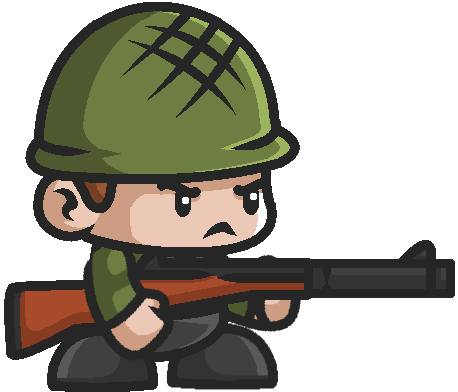
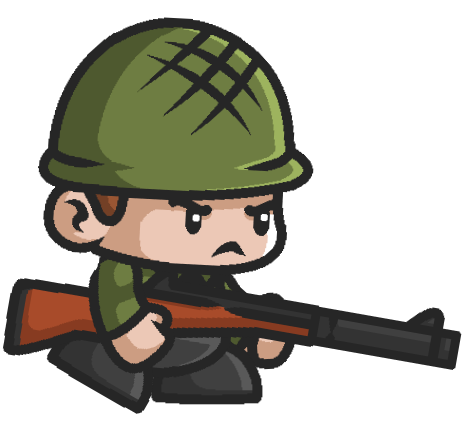
ADD: Adicionado imagens andando

diff --git a/ex-1.7/main.c b/ex-1.7/main.c
@@ -2,17 +2,18 @@
 #include <SDL2/SDL_image.h>
 #include <stdbool.h>
 
+#define NUM_FRAMES 9
+#define FRAME_DELAY 100 // ms por frame
+
 int AUX_WaitEventTimeout(SDL_Event *evt, Uint32 *ms) {
     if (ms == NULL) {
         return 0; // segurança
     }
 
-    Uint32 start = SDL_GetTicks(); // tempo inicial
-
-    int result = SDL_WaitEventTimeout(evt, *ms); // 1 = evento, 0 = timeout
-
-    Uint32 end = SDL_GetTicks(); // tempo final
-    Uint32 elapsed = end - start; // tempo decorrido
+    Uint32 start = SDL_GetTicks();
+    int result = SDL_WaitEventTimeout(evt, *ms);
+    Uint32 end = SDL_GetTicks();
+    Uint32 elapsed = end - start;
 
     if (elapsed >= *ms) {
         *ms = 0;
@@ -23,49 +24,70 @@ int AUX_WaitEventTimeout(SDL_Event *evt, Uint32 *ms) {
     return result; 
 }
 
-int main(int args, char* argc[]){
-
+int main(int args, char* argc[]) {
     bool rodando = true;
     int timeout = 16;
     SDL_Event evento;
 
-    // Iniciando elementos essenciais do SDL
     SDL_Init(SDL_INIT_EVERYTHING);
-    IMG_Init(0);
+    IMG_Init(IMG_INIT_PNG);
 
     SDL_Window* janela = SDL_CreateWindow(
-        "Exercicio-1.7",
+        "Animacao Sprite",
         SDL_WINDOWPOS_CENTERED,
         SDL_WINDOWPOS_CENTERED,
         800, 600,
         SDL_WINDOW_SHOWN
     );
     
-    SDL_Renderer* renderizador = SDL_CreateRenderer(janela, -1, 0);
+    SDL_Renderer* renderizador = SDL_CreateRenderer(janela, -1, SDL_RENDERER_ACCELERATED);
 
-    SDL_Texture* persona = IMG_LoadTexture(renderizador, "img/persona.png");
-
-    SDL_Rect quadrado = {50, 50, 300, 300};
-
-    while(rodando){
-
-        // Desenhando
-        SDL_SetRenderDrawColor(renderizador, 255, 255, 255, 0);
-        SDL_RenderClear(renderizador);
-        SDL_RenderCopy(renderizador, persona, NULL, &quadrado);
-        SDL_RenderPresent(renderizador);
-        
-        while(AUX_WaitEventTimeout(&evento, &timeout)){
-            if(evento.type == SDL_QUIT){
-                rodando = false;
-            }
+    // Carregar as 9 imagens
+    SDL_Texture* frames[NUM_FRAMES];
+    for (int i = 0; i < NUM_FRAMES; i++) {
+        char filename[64];
+        sprintf(filename, "img/anim_%d.png", i+1);
+        frames[i] = IMG_LoadTexture(renderizador, filename);
+        if (!frames[i]) {
+            printf("Erro ao carregar %s: %s\n", filename, IMG_GetError());
+            return -1;
         }
     }
 
-    // Liberando recursos
-    SDL_DestroyTexture(persona);
+    SDL_Rect quadrado = {50, 50, 300, 300};
+
+    int frameAtual = 0;
+    Uint32 ultimoTempo = SDL_GetTicks();
+
+    while (rodando) {
+        // Eventos
+        while (AUX_WaitEventTimeout(&evento, &timeout)) {
+            if (evento.type == SDL_QUIT) {
+                rodando = false;
+            }
+        }
+
+        // Atualizar frame
+        Uint32 agora = SDL_GetTicks();
+        if (agora - ultimoTempo >= FRAME_DELAY) {
+            frameAtual = (frameAtual + 1) % NUM_FRAMES;
+            ultimoTempo = agora;
+        }
+
+        // Desenhar
+        SDL_SetRenderDrawColor(renderizador, 255, 255, 255, 0);
+        SDL_RenderClear(renderizador);
+        SDL_RenderCopy(renderizador, frames[frameAtual], NULL, &quadrado);
+        SDL_RenderPresent(renderizador);
+    }
+
+    // Liberar recursos
+    for (int i = 0; i < NUM_FRAMES; i++) {
+        SDL_DestroyTexture(frames[i]);
+    }
     SDL_DestroyRenderer(renderizador);
     SDL_DestroyWindow(janela);
+    IMG_Quit();
     SDL_Quit();
     return 0;
 }
